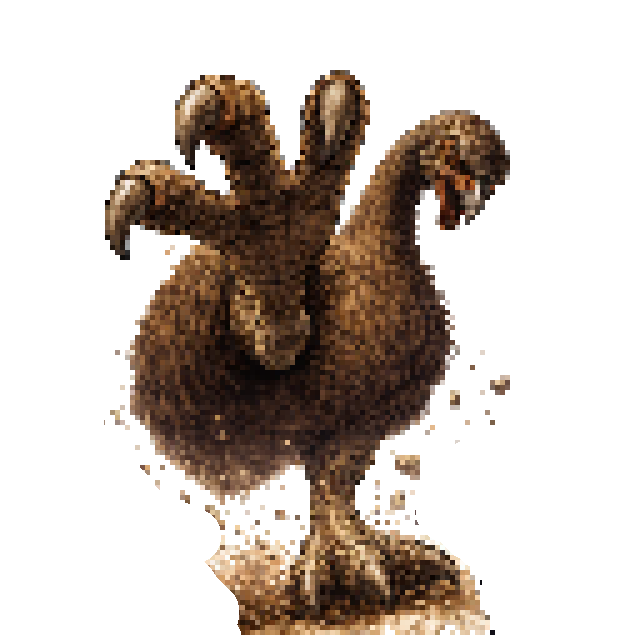
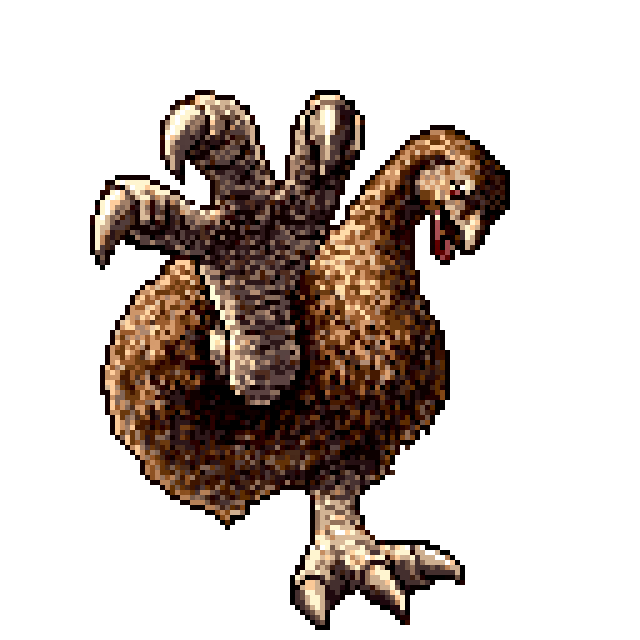
画像の更新、敵名前など

diff --git a/game_data.py b/game_data.py
@@ -94,11 +94,13 @@ BOSS_TALK = {
     3: [
         "わたくしの赤い炎は　うつくしいでしょう\nうつくしいということは　それなりの代償を持ち合わせます",
         "誰も見向きもしないような　そんな姿に生まれたかった",
-        "そう思うことも　あります……"
+        "そう思うことも　あります……\nそれでも　この場所では　胸を張って　生きていけるのです"
     ],
     4: [
-        "あなた、ケガをしているわ。治してあげる",
-        "えっ、私を倒しにきたの？\nそんなことしなくていいのに……"
+        "旅人よ。けがをしておられるようです……。\n手当ていたしますので　少しじっとしていてください……",
+        "これで元気になられたかと思います\nえ？　これから戦うのに　なぜ治すのかって？",
+        "わたくしは　傷ついている生き物を見ると　治さずにはいられないのです\nこれが私の強さでもあり、弱さでもあった",
+        "それでも、自分の生き方は曲げないと　自分で決めているのです。\nさあ、戦いましょう。覚悟してください。",
     ],
     5: [
         "私の親友を倒したのは、あなたね",
@@ -173,7 +175,7 @@ EVENT_TALK = [
     ["小さな骨の横に、少女のぬいぐるみが置いてある", "幼い子供も、魔物の犠牲になってしまったようだ"],
     ["バリケードが破壊されている。", "今は魔物に占領されたこの洞窟も、\n昔は人間が隠れて暮らしていたのかもしれない。"],
     ["ここの親分は、とても優しいのだ。傷ついた仲間を見ると、心配してくれて癒してくれるのだ。癒しを司る心優しい親分なのだ。"],
-    ["壁の中に、ゾンビがいる。", "「俺は死ねないんだ。殺してくれないか。", "俺がゾンビになる時、仲間が俺を守ったんだ。\n俺はあの時、殺して欲しかった…」"],
+    ["壁の中に、ゾンビがいる。", "「俺は死ねないんだ。殺してくれないか。", "俺がゾンビになる時、ゆうしゃが俺を守ったんだ。\n俺はあの時、殺して欲しかった…」"],
     ["あなたは強そうだ。", "数年前、青い帽子をしたあなたと同じように\n実力のある男が奥に進んでいったよ。", "帰っていく姿は見ていないけどね。"],
     ["少女が立っている。", "少女「私ね、1人なの。お友達はね、このダンジョンで殺されてしまったの。\nあなたは、殺さないよね」"],
     ["やあ、また会ったな！\n今日はここがオラの掃除当番だ。", "おめえ、このまえとは目つきがちげえなあ。\nなんというか、肉食獣みたいな目つきだ"],
@@ -211,10 +213,10 @@ EMY_NAME = [
     "マガミスティン", #Poison
     "レッドホープ", #火だるまと吸収
     "シュテルゴン", #回復不能
-    "トラのまもの", #デストロイ
+    "ジャバン", #デストロイ
     "サイファトゥ", #パワーアップ
     "トキ系", #Magia
-    "トラのまもの", #インフェルノ
+    "ジャバン", #インフェルノ
     "マンモス系", #モード変化
     "ゆうしゃ",
     "White slime",
